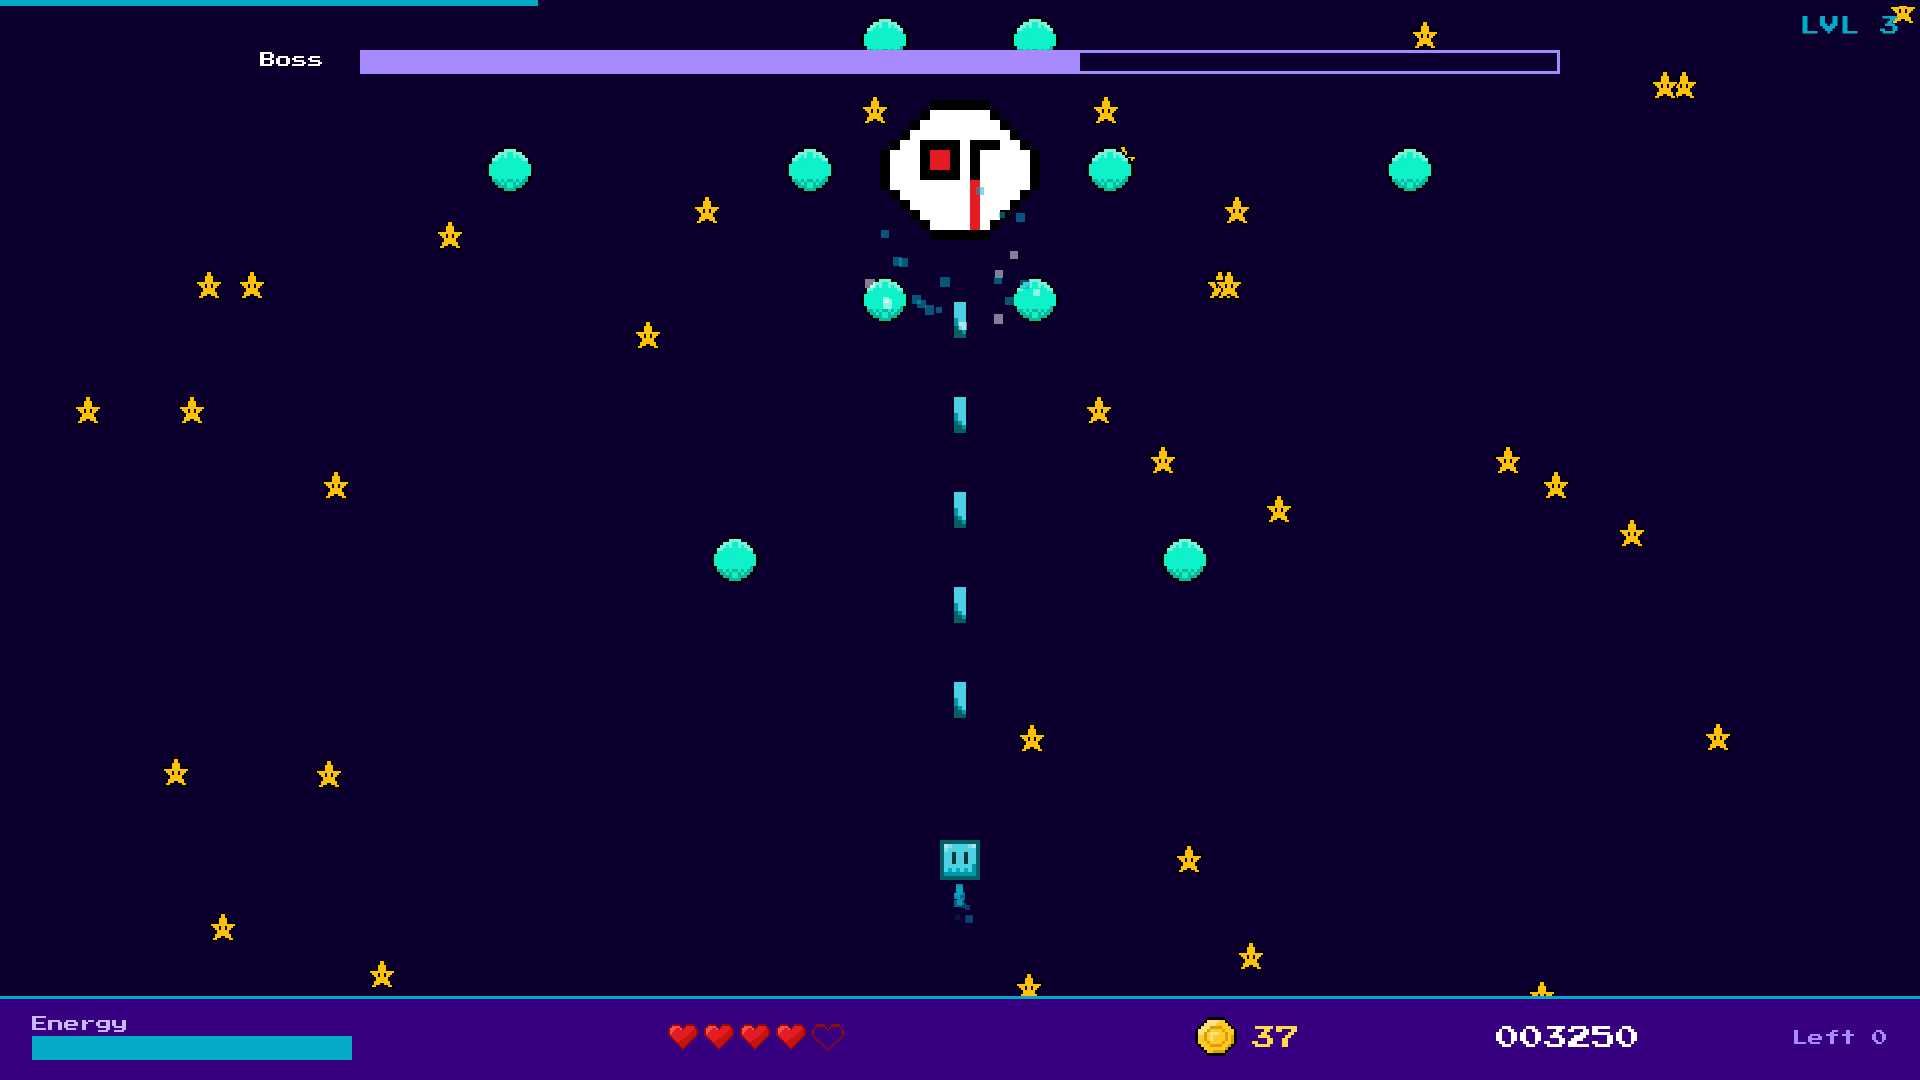
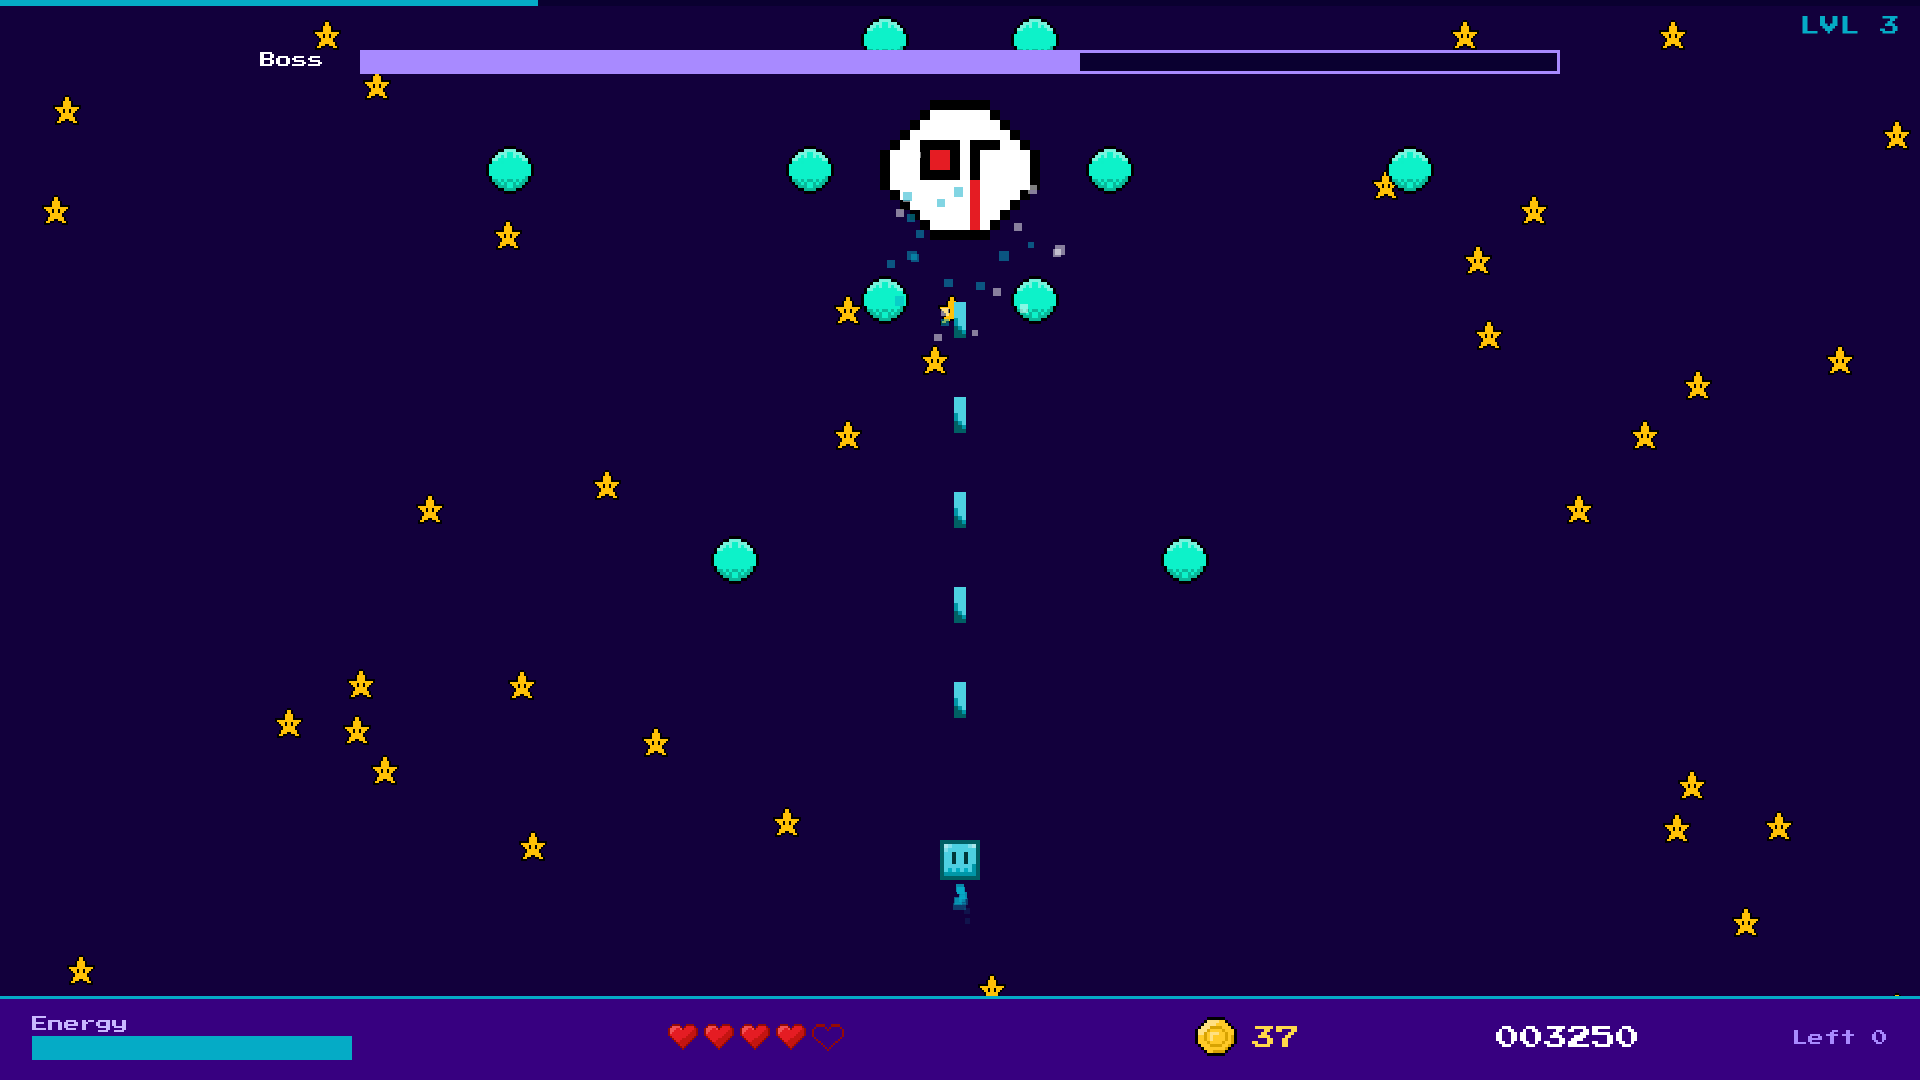
Update README with new screenshots
Add gameplay, boss fight, pause, game over, and level complete screenshots
and refresh the existing ones with the unified background color.

diff --git a/README.md b/README.md
@@ -22,6 +22,12 @@ A pixel art arcade shooter built with Godot 4 and GDScript. Guide your shape thr
 |---|---|
 | ![Gameplay](images/screenshot_gameplay.png) | ![Boss fight](images/screenshot_boss.png) |
 
+| Pause | Game over | Level complete |
+|---|---|---|
+| ![Pause](images/screenshot_pause.png) | ![Game over](images/screenshot_gameover.png) | ![Level complete](images/screenshot_victory.png) |
+
+*Gameplay and boss fight screenshots are staged scenes for illustration.*
+
 ---
 
 ## Gameplay
